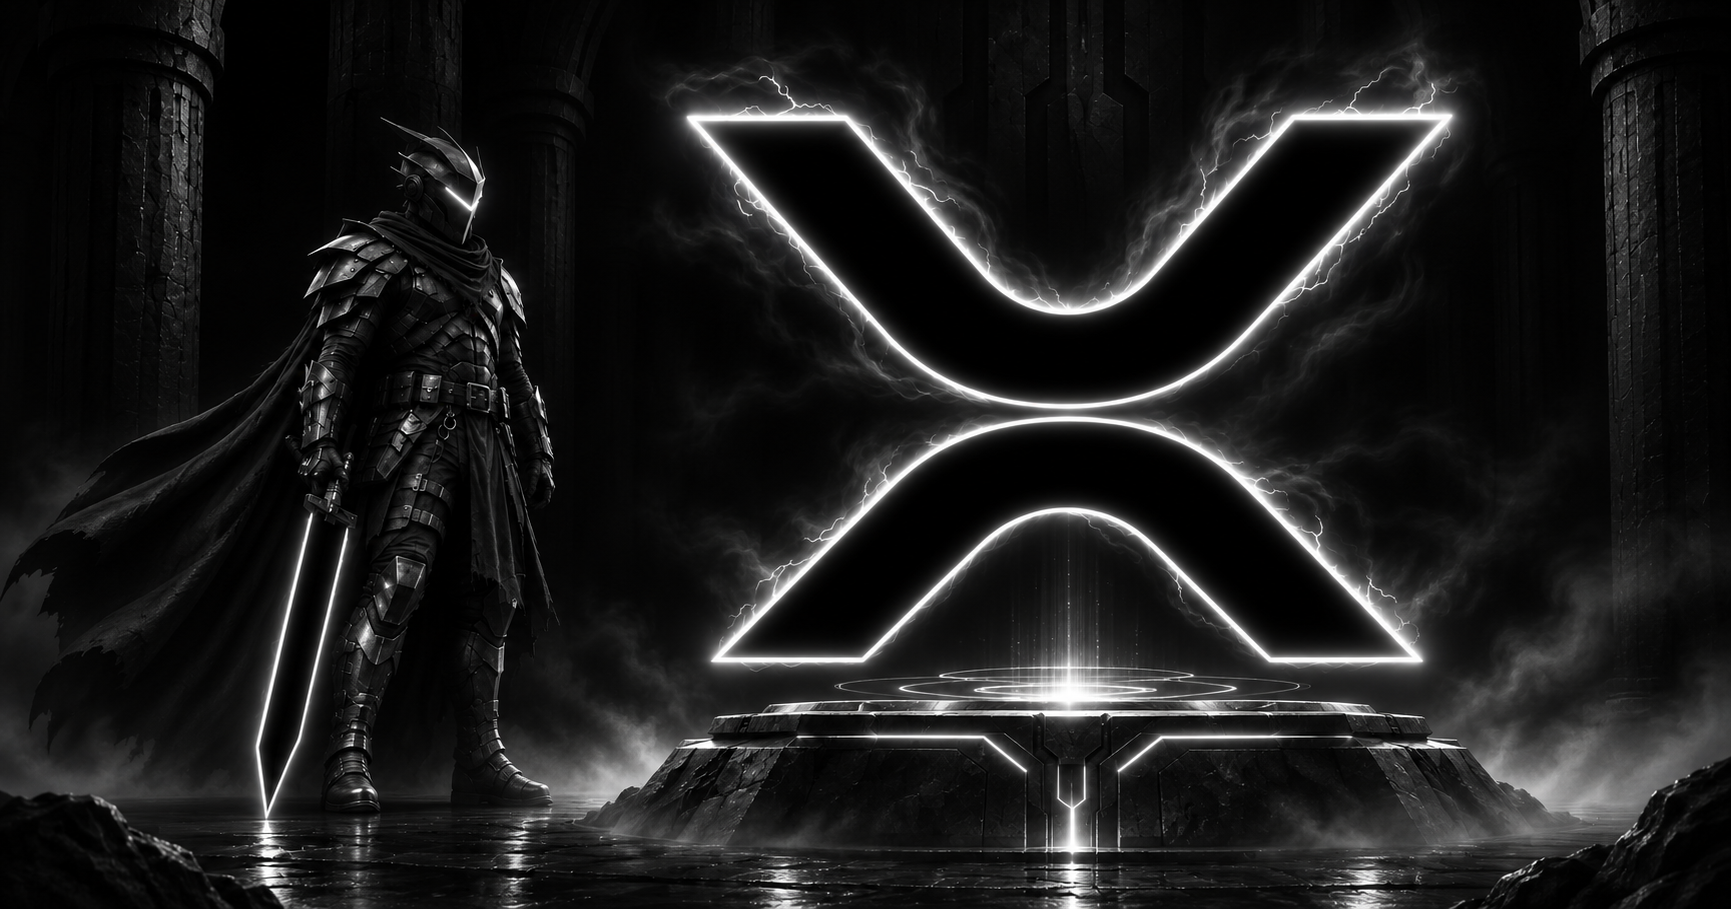
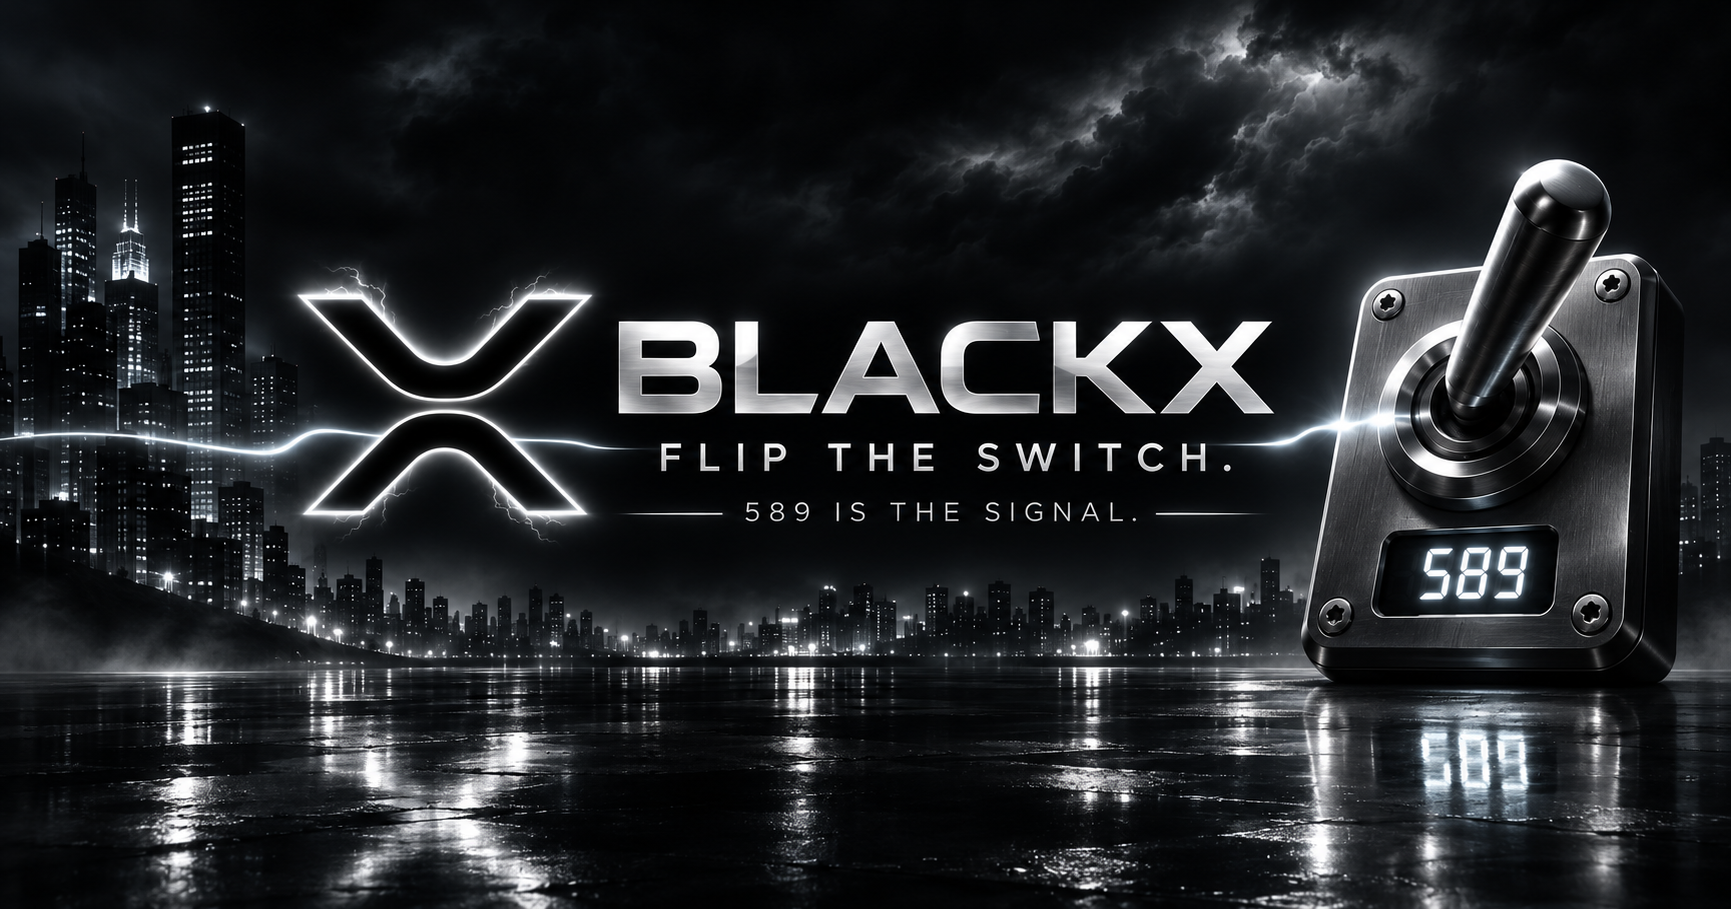
Refresh mobile hero and social controls

diff --git a/src/app/mobile-hero.css b/src/app/mobile-hero.css
@@ -1,0 +1,149 @@
+.hero-mobile-layout { display: none; }
+
+@media (max-width: 767px) {
+  .site-header {
+    border: 1px solid rgba(164, 190, 209, .2);
+    border-top: 0;
+    border-radius: 0 0 19px 19px;
+    background: rgba(1, 5, 9, .96);
+    backdrop-filter: blur(18px);
+  }
+  .nav.shell { width: calc(100% - 32px); min-height: 54px; }
+  .nav .brand { gap: 9px; font-size: 21px; letter-spacing: -.055em; }
+  .nav .brand img { width: 36px; height: 36px; }
+  .menu-toggle { width: 40px; height: 40px; border-radius: 9px; border-color: rgba(186, 214, 232, .45); }
+  .menu-toggle span { width: 19px; height: 2px; }
+  .menu-toggle--open span:first-child { transform: translateY(8px) rotate(45deg); }
+  .menu-toggle--open span:nth-child(2) { opacity: 0; }
+  .menu-toggle--open span:last-child { transform: translateY(-8px) rotate(-45deg); }
+  .nav-links { top: 54px; inset: 54px 0 0; min-height: calc(100dvh - 54px); }
+
+  .hero { display: block; height: auto; min-height: max(100dvh, 800px); background: #02070c; }
+  .hero-inner { display: none; }
+  .hero-image img { object-position: center center; transform: none; }
+  .hero-shade {
+    background: linear-gradient(180deg, rgba(0, 3, 7, .16) 0%, rgba(0, 3, 7, .36) 31%, transparent 47%, rgba(0, 3, 7, .05) 68%, rgba(0, 3, 7, .18) 100%);
+  }
+  .hero-mobile-layout {
+    position: relative;
+    z-index: 1;
+    display: flex;
+    flex-direction: column;
+    justify-content: space-between;
+    width: min(100%, 580px);
+    min-height: max(100dvh, 800px);
+    margin-inline: auto;
+    padding: 73px 18px max(40px, env(safe-area-inset-bottom));
+    text-align: center;
+  }
+  .hero-mobile-intro { display: flex; flex-direction: column; align-items: center; }
+  .hero-mobile-mark { width: clamp(85px, 23vw, 100px); height: auto; filter: drop-shadow(0 0 9px rgba(150, 218, 255, .45)); }
+  .hero-mobile-kicker, .hero-mobile-signal {
+    display: flex;
+    align-items: center;
+    justify-content: center;
+    gap: 11px;
+    width: 100%;
+    margin: 5px 0 11px;
+    color: #dce4ed;
+    font-size: clamp(9px, 2.25vw, 12px);
+    font-weight: 650;
+    letter-spacing: .24em;
+    line-height: 1.25;
+    text-transform: uppercase;
+    white-space: nowrap;
+  }
+  .hero-mobile-kicker span, .hero-mobile-signal span { width: clamp(18px, 8vw, 40px); height: 1px; background: rgba(235, 245, 255, .8); }
+  .hero-mobile-intro h1 {
+    max-width: none;
+    margin: 0 0 11px;
+    background: linear-gradient(180deg, #fff 14%, #e5ebf2 42%, #aab9c9 77%, #f7fbff 100%);
+    background-clip: text;
+    color: transparent;
+    font-size: clamp(24px, 7.4vw, 42px);
+    font-style: italic;
+    font-weight: 850;
+    letter-spacing: -.052em;
+    line-height: 1.08;
+    text-shadow: 0 2px 20px rgba(230, 246, 255, .11);
+    text-transform: uppercase;
+    white-space: nowrap;
+  }
+  .hero-mobile-intro h1 em { color: #e0f4ff; font-style: inherit; text-shadow: 0 0 10px rgba(113, 199, 255, .85); }
+  .hero-mobile-lede {
+    margin: 0;
+    color: #e2e7eb;
+    font-size: clamp(11px, 3vw, 15px);
+    font-weight: 430;
+    line-height: 1.42;
+    text-shadow: 0 2px 8px #000;
+  }
+  .hero-mobile-bottom { display: grid; gap: 10px; }
+  .hero-mobile-flip, .hero-mobile-buy { position: relative; isolation: isolate; color: #f6faff; }
+  .hero-mobile-flip::before, .hero-mobile-flip::after,
+  .hero-mobile-buy::before, .hero-mobile-buy::after {
+    content: "";
+    position: absolute;
+    inset: 0;
+    z-index: -1;
+    clip-path: polygon(14px 0, calc(100% - 14px) 0, 100% 50%, calc(100% - 14px) 100%, 14px 100%, 0 50%);
+  }
+  .hero-mobile-flip::before, .hero-mobile-buy::before { background: linear-gradient(120deg, #89b8d3, #f1f8ff 48%, #779fbe); }
+  .hero-mobile-flip::after, .hero-mobile-buy::after { inset: 2px; background: rgba(1, 8, 14, .91); }
+  .hero-mobile-flip {
+    display: flex;
+    align-items: center;
+    justify-content: center;
+    min-height: 46px;
+    padding: 0 24px;
+    font-size: clamp(15px, 4.6vw, 23px);
+    font-weight: 800;
+    letter-spacing: .12em;
+    text-transform: uppercase;
+    text-shadow: 0 0 14px rgba(224, 247, 255, .65);
+    filter: drop-shadow(0 0 8px rgba(123, 204, 255, .25));
+  }
+  .hero-mobile-flip span:last-child { position: absolute; right: 10%; font-size: 31px; font-weight: 400; line-height: .6; }
+  .hero-mobile-link-row { display: grid; grid-template-columns: 1fr 1.1fr; gap: 8px; }
+  .hero-mobile-buy { display: flex; align-items: center; justify-content: center; min-height: 44px; }
+  .hero-mobile-buy { gap: 6px; font-size: clamp(10px, 3.15vw, 15px); font-weight: 750; text-transform: uppercase; white-space: nowrap; }
+  .hero-mobile-buy span { font-size: 22px; font-weight: 400; }
+  .hero-mobile-socials { display: grid; grid-template-columns: repeat(3, minmax(0, 1fr)); gap: 5px; min-height: 44px; }
+  .hero-mobile-socials a { position: relative; isolation: isolate; display: flex; align-items: center; justify-content: center; min-width: 0; min-height: 44px; transition: transform .18s ease; }
+  .hero-mobile-socials a::before, .hero-mobile-socials a::after { content: ""; position: absolute; inset: 0; z-index: -1; clip-path: polygon(9px 0, calc(100% - 9px) 0, 100% 50%, calc(100% - 9px) 100%, 9px 100%, 0 50%); }
+  .hero-mobile-socials a::before { background: linear-gradient(135deg, #789ab4, #d4e9f9 50%, #789ab4); }
+  .hero-mobile-socials a::after { inset: 2px; background: rgba(1, 8, 14, .93); transition: background .18s ease; }
+  .hero-mobile-socials a img { width: 22px; height: 22px; filter: brightness(0) invert(1) drop-shadow(0 0 3px rgba(210, 239, 255, .4)); }
+  .hero-mobile-socials a:hover::after, .hero-mobile-socials a:focus-visible::after { background: rgba(27, 61, 82, .98); }
+  .hero-mobile-socials a:hover { transform: translateY(-2px); }
+  .hero-mobile-socials a:active { transform: scale(.93); }
+  .hero-mobile-flip:hover::after, .hero-mobile-buy:hover::after { background: rgba(12, 28, 41, .96); }
+  .hero-mobile-flip:active, .hero-mobile-buy:active { transform: scale(.98); }
+  .hero-mobile-status {
+    display: grid;
+    grid-template-columns: 1fr 1fr;
+    align-items: center;
+    min-height: 58px;
+    margin-top: 3px;
+    padding: 7px 8px;
+    border: 1px solid rgba(135, 181, 212, .57);
+    border-radius: 11px;
+    background: rgba(1, 9, 15, .75);
+    box-shadow: inset 0 0 19px rgba(111, 193, 241, .07), 0 0 18px rgba(0, 0, 0, .3);
+  }
+  .hero-mobile-status > div { display: flex; flex-direction: column; align-items: center; gap: 2px; min-width: 0; }
+  .hero-mobile-status > div + div { border-left: 1px solid rgba(235, 245, 255, .6); }
+  .hero-mobile-status span { color: #bccbd7; font-size: 9px; letter-spacing: .09em; text-transform: uppercase; }
+  .hero-mobile-status strong { color: #f0f9ff; font-size: clamp(14px, 4vw, 21px); font-weight: 750; line-height: 1.1; text-transform: uppercase; text-shadow: 0 0 12px rgba(113, 206, 255, .65); white-space: nowrap; }
+  .hero-mobile-status strong span { color: #e2f0f9; font-size: 20px; }
+  .hero-mobile-status small { color: #a9bbc9; font-size: 9px; letter-spacing: .08em; text-transform: uppercase; }
+  .hero-mobile-signal { margin: 1px 0 0; color: #b9c6d1; font-size: clamp(9px, 2.5vw, 13px); letter-spacing: .24em; }
+  .hero-mobile-signal span { width: clamp(22px, 10vw, 54px); }
+}
+
+@media (max-width: 360px) {
+  .hero-mobile-layout { padding-inline: 12px; }
+  .hero-mobile-intro h1 { font-size: 7.15vw; }
+  .hero-mobile-lede { font-size: 10.5px; }
+  .hero-mobile-status strong { font-size: 13px; }
+}

diff --git a/src/components/Hero.tsx b/src/components/Hero.tsx
@@ -1,12 +1,13 @@
 import Image from "next/image";
 import { ContractAddress } from "./ContractAddress";
 import { HeroUpdates } from "./HeroUpdates";
+import { site } from "@/config/site";
 
 export function Hero() {
   return (
-    <section className="hero" id="top" aria-labelledby="hero-title">
+    <section className="hero" id="top" aria-label="BlackX: One switch off, another switch on">
       <picture className="hero-image">
-        <source media="(max-width: 767px)" srcSet="/hero-mobile.webp" />
+        <source media="(max-width: 767px)" srcSet="/hero-mobile-scene.webp" />
         <img src="/hero-desktop.webp" alt="A city skyline in darkness with a narrow current of light" fetchPriority="high" />
       </picture>
       <div className="hero-shade" />
@@ -24,6 +25,30 @@ export function Hero() {
         </div>
         <div className="hero-emblem" aria-hidden="true">
           <Image src="/blackx-emblem.png" alt="" width={520} height={520} priority />
+        </div>
+      </div>
+      <div className="hero-mobile-layout">
+        <div className="hero-mobile-intro">
+          <Image className="hero-mobile-mark" src="/blackx-emblem.png" alt="" width={120} height={120} priority />
+          <p className="hero-mobile-kicker"><span />The BlackX Moment<span /></p>
+          <h1>One switch off.<br />Another switch <em>on.</em></h1>
+          <p className="hero-mobile-lede">The world goes dark. The XRP legend lights up.<br />BlackX is the moment between the two.</p>
+        </div>
+        <div className="hero-mobile-bottom">
+          <a className="hero-mobile-flip" href="#switch"><span>Flip the switch</span><span aria-hidden="true">›</span></a>
+          <div className="hero-mobile-link-row">
+            <a className="hero-mobile-buy" href="#how-to-buy">Buy BLACKX <span aria-hidden="true">›</span></a>
+            <div className="hero-mobile-socials" role="group" aria-label="BlackX social channels">
+              <a href={site.socials[0].href} target="_blank" rel="noopener noreferrer" aria-label="BlackX on X"><Image src="/icons/x-logo.svg" alt="" width={24} height={24} /></a>
+              <a href={site.socials[2].href} target="_blank" rel="noopener noreferrer" aria-label="BlackX on Telegram"><Image src="/icons/telegram-logo.svg" alt="" width={24} height={24} /></a>
+              <a href={site.socials[1].href} target="_blank" rel="noopener noreferrer" aria-label="BlackX on Discord"><Image src="/icons/discord-logo.svg" alt="" width={24} height={24} /></a>
+            </div>
+          </div>
+          <div className="hero-mobile-status">
+            <div><span>Launch status</span><strong>Coming soon</strong><small>{site.launchDate}</small></div>
+            <div><span>Target narrative</span><strong><span aria-hidden="true">✕</span> 589</strong></div>
+          </div>
+          <p className="hero-mobile-signal"><span />The 589 Signal<span /></p>
         </div>
       </div>
     </section>

diff --git a/src/app/layout.tsx b/src/app/layout.tsx
@@ -5,6 +5,7 @@ import "./globals.css";
 import "./switch.css";
 import "./refinements.css";
 import "./contract.css";
+import "./mobile-hero.css";
 
 const geist = localFont({ src: "../fonts/geist-latin.woff2", variable: "--font-geist", display: "swap", weight: "100 900" });
 const geistMono = localFont({ src: "../fonts/geist-mono-latin.woff2", variable: "--font-geist-mono", display: "swap", weight: "100 900" });
@@ -13,7 +14,7 @@ const ogImage = {
   url: "/og-image.png",
   width: 1731,
   height: 909,
-  alt: "BlackX | One Switch OFF. Another Switch ON.",
+  alt: "BlackX | Flip the Switch. 589 is the Signal.",
   type: "image/png",
 } as const;
 

diff --git a/src/config/site.ts b/src/config/site.ts
@@ -2,7 +2,7 @@ export const site = {
   name: "BlackX",
   tokenSymbol: "$BLACKX",
   logo: "/blackx-emblem.png",
-  launchDate: "13th November 2026",
+  launchDate: "15 November 2026",
   contractAddress: null as string | null,
   socials: [
     { label: "X", href: "https://x.com/blackX589", handle: "Updates and conversation" },

diff --git a/src/components/Navbar.tsx b/src/components/Navbar.tsx
@@ -47,7 +47,7 @@ export function Navbar() {
           aria-expanded={open}
           aria-controls="main-menu"
           onClick={() => setOpen(!open)}
-        ><span /><span /></button>
+        ><span /><span /><span /></button>
       </nav>
     </header>
   );
